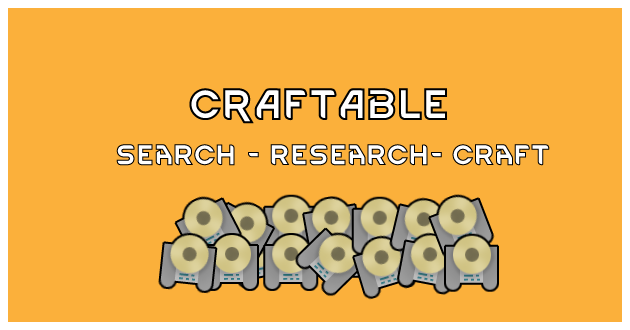
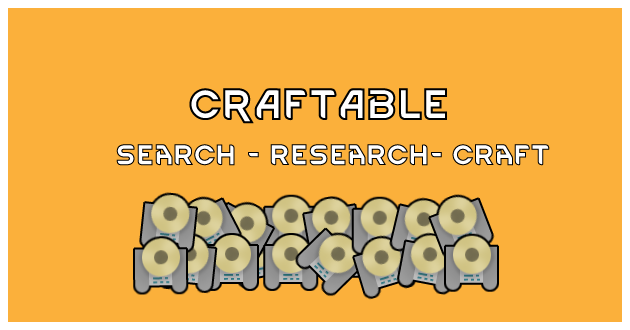
bug fixed, balanced and add serums

Changed region(s): [[0.2111, 0.5758, 0.3317, 0.9091]]

diff --git a/README.md b/README.md
@@ -6,23 +6,26 @@ This mod allows you to manufacture most of the items locked in Rimworld and Roya
 
 Add several investigations using the techprint system and requiring a medium-high amount of investigation to unlock the technologies necessary for the creation of the items.
 
-Many of the items are balanced with respect to the MV(Market Value) and the amount of work.
+Many of the items are balanced with respect to the MV(Market Value) and the amount of work, techprint have custom MV and they are expensive. For example: resurrector serum need 5 techprint and each techprint cost 10.000 silver plus 30.000 research point and need 3.000 points of work to make (cataphract armor have 1.000, reference).
 
 
 ![content](https://i.imgur.com/vbB8QVk.png)
 
 
-![1](https://i.imgur.com/4pcPfgD.png)
-![1](https://i.imgur.com/FLH2JG4.png)
-![1](https://i.imgur.com/lH732hY.png)
-![1](https://i.imgur.com/DPfPEPj.png)
-![1](https://i.imgur.com/i0vIbG8.png)
-![1](https://i.imgur.com/UInXcsE.png)
-![1](https://i.imgur.com/9vp2hZT.png)
-![1](https://i.imgur.com/uaHOtAN.png)
-![1](https://i.imgur.com/lXcwpHj.png)
-![1](https://i.imgur.com/wvsBOgh.png)
-![1](https://i.imgur.com/VfX7B6D.png)
+![1](https://i.imgur.com/K3Rt5RL.png)
+![1](https://i.imgur.com/p3JWJ5w.png)
+![1](https://i.imgur.com/k6LVPU1.png)
+![1](https://i.imgur.com/TZSi7Bg.png)
+![1](https://i.imgur.com/Bh5sUAm.png)
+![1](https://i.imgur.com/S0ToN1S.png)
+![1](https://i.imgur.com/ReoLmPn.png)
+![1](https://i.imgur.com/JZIZXWb.png)
+![1](https://i.imgur.com/ZUwDhpw.png)
+![1](https://i.imgur.com/k68gYIS.png)
+![1](https://i.imgur.com/Vw7Cypt.png)
+![1](https://i.imgur.com/p3I4e42.png)
+![1](https://i.imgur.com/Fv6wqPS.png)
+
 
 *Royalty weapons and persona weapons go into 2 separate investigations with 3 techprint for each. The cost of the swords is similar to the longsword and the zeushammer to the warhammer. Table below.
 
@@ -49,6 +52,22 @@ Many of the items are balanced with respect to the MV(Market Value) and the amou
 | Eltex Robe  |  100 synthread + 15 uranium + 2 spacer component |
 |  Eltex Skullcap |  60 synthread + 20 uranium + 3 spacer component |
 
+
+
+![1](https://i.imgur.com/yF7qXjS.png)
+
+20/9/20
+- Load order conflict with Combat extended - Vanilla fixed: need to load before if CE is load. This bug throw error if CE is not loaded.
+- Work to make increasing in x4 recipe for glitterworld medicine and luciferium.
+- Work to make increasing for antigrain warhead, royalty weapons and persona weapons.
+- Work to make increasing for eltex skullcap.
+- Multiple research increasing and amount of techprint.
+- Custom techprint cost.
+- Preview image minor change.
+- Mech Serum healer and resurrector added.
+
+18/9/20
+- Dimensions on preview image.
 
 
 ![FAQ](https://i.imgur.com/Fpg70LW.png)
